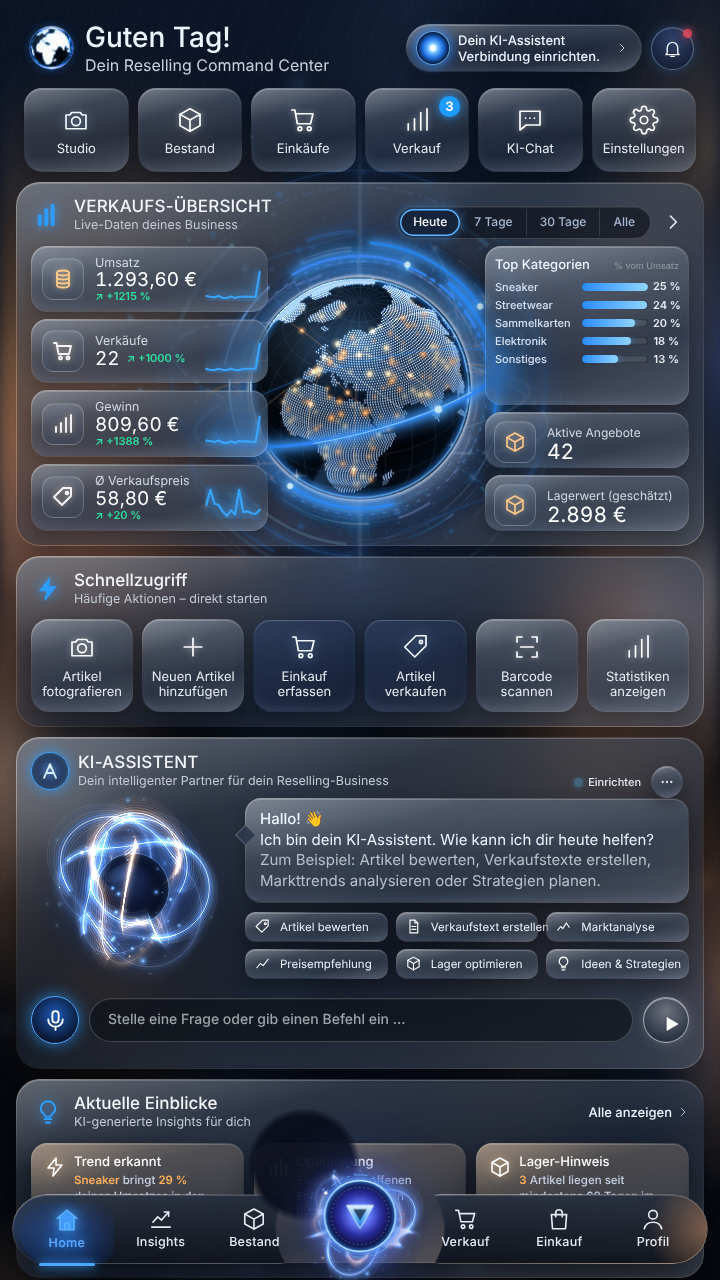
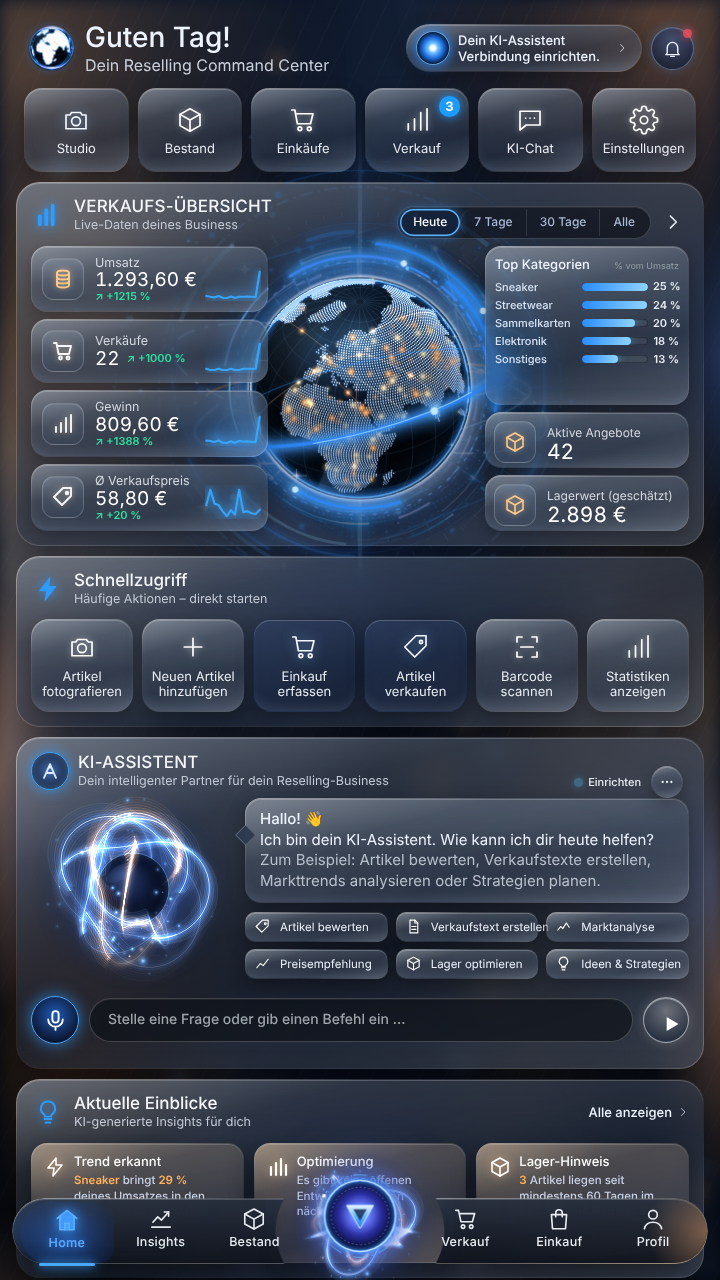
Menümitte: dunklen Kreis über dem Ring entfernt
Claude-Session: https://claude.ai/code/session_0194bcZ5PbUBuV3hzmwdGD96

diff --git a/public/theme.css b/public/theme.css
@@ -616,3 +616,5 @@ body:has(#home:not(.hidden)) main.wrap { padding-bottom:120px !important; }
 .lux-bottomnav .orb::before { width:112px !important; height:112px !important; background:radial-gradient(circle, rgba(10,14,28,.95) 0 62%, transparent 72%) !important; }
 .lux-bottomnav .orb .cc-nav-plasma { width:138px !important; height:138px !important; }
 .lux-bottomnav .orb svg.cc-navorb { width:96px !important; height:96px !important; }
+.lux-bottomnav .orb::before { display:none !important; }
+.lux-bottomnav .orb { margin-top:-30px !important; }
